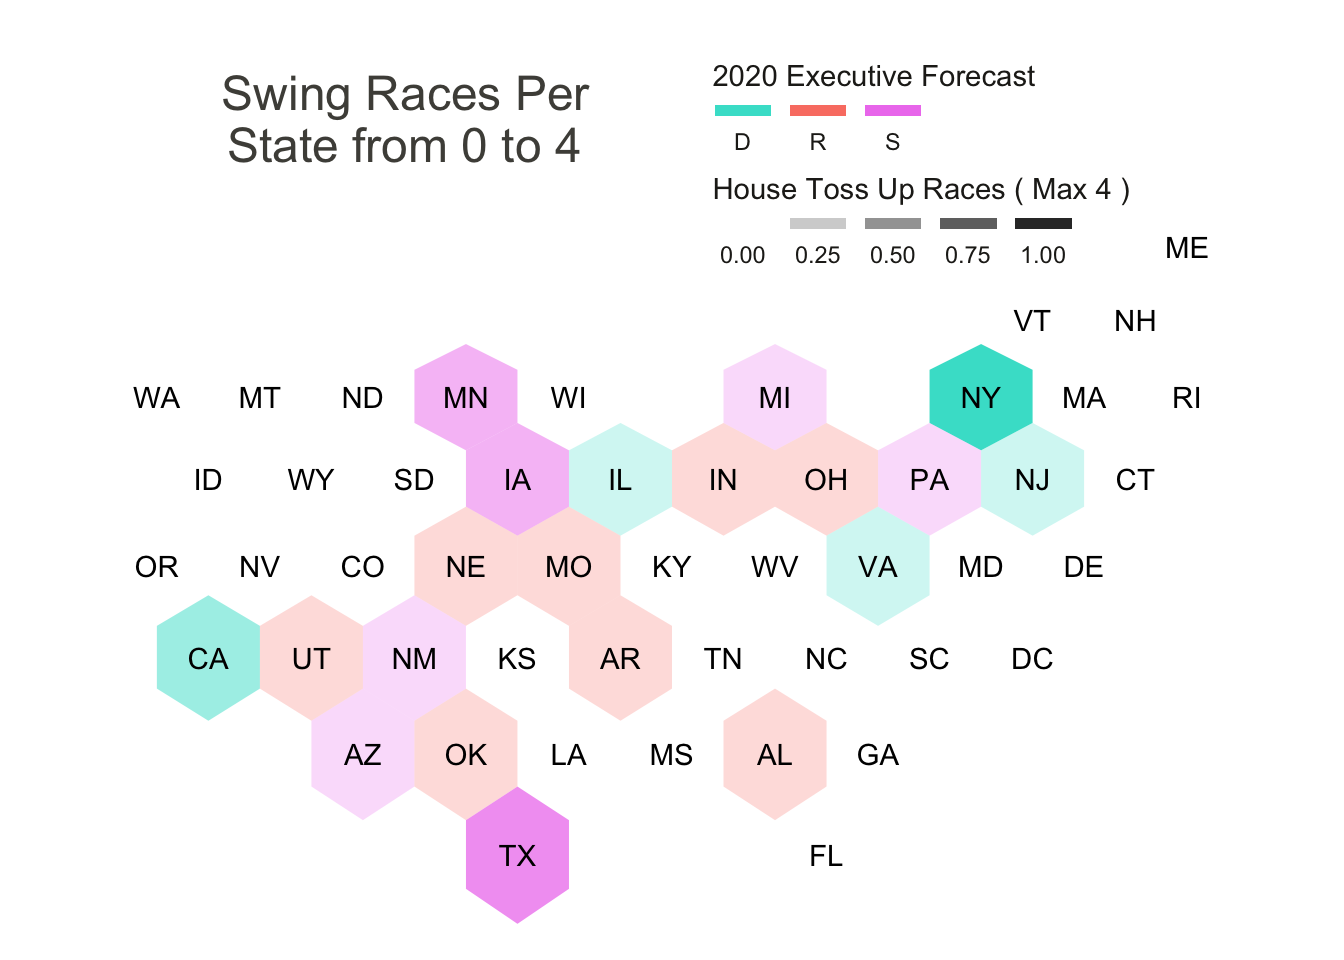
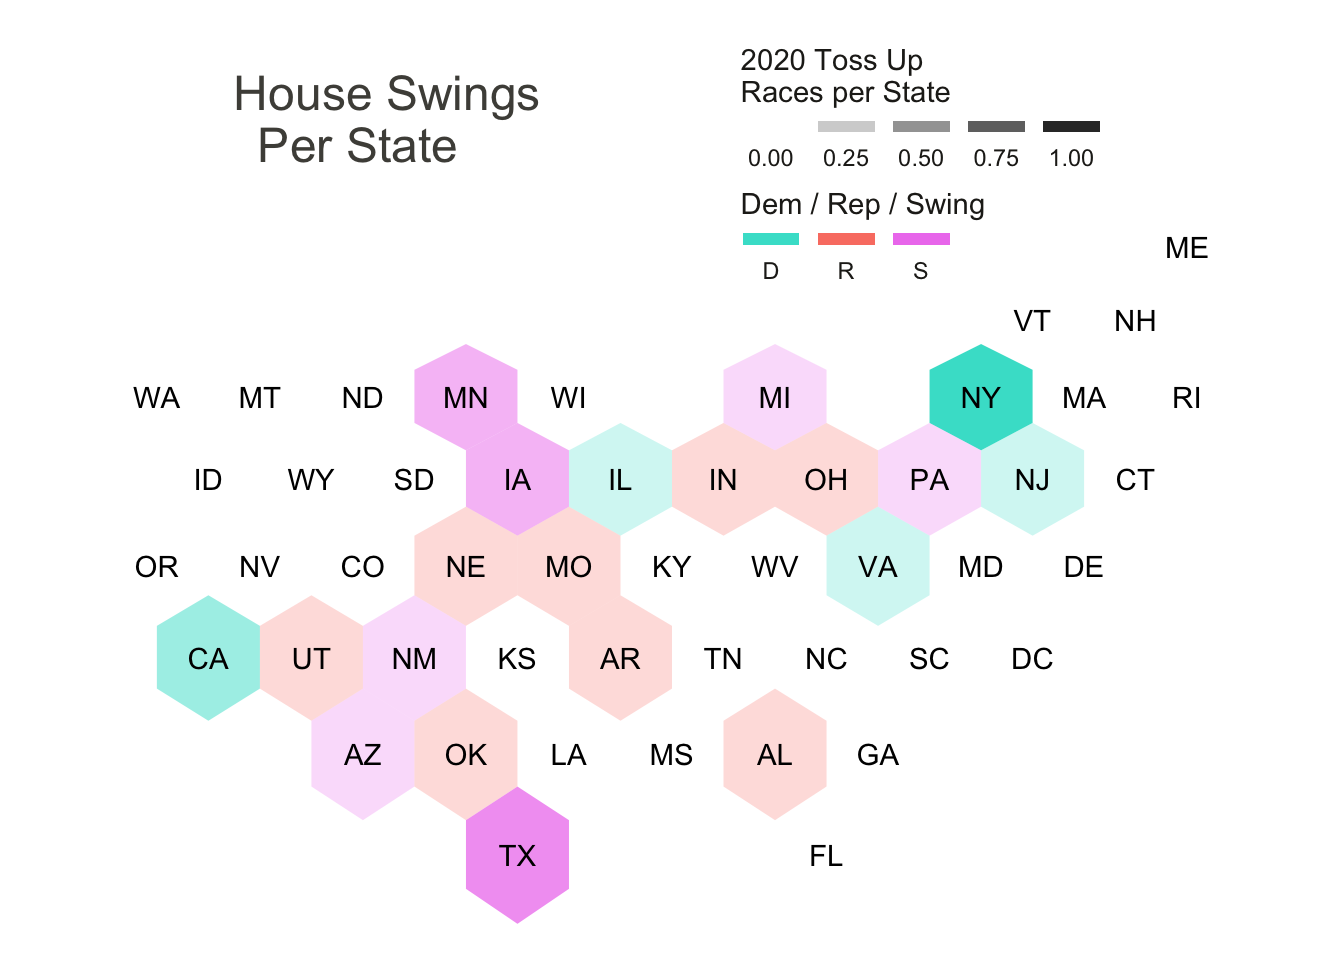
final commit with additional house swing map

Changed region(s): [[0.5312, 0.0312, 0.8438, 0.2812], [0.1562, 0.0625, 0.4375, 0.1875]]

diff --git a/docs/LazinFinal_GEO511.html b/docs/LazinFinal_GEO511.html
@@ -427,6 +427,9 @@ library(broom)
 library(rgeos)
 library(mapproj)
 library(viridis)
+library(corrplot)
+library(reshape2)
+library(igraph)
 knitr::opts_chunk$set(cache=TRUE)  # cache the results for quick compiling</code></pre>
 </div>
 <div id="data" class="section level2">
@@ -1098,28 +1101,28 @@ my_palette4&lt;-magma(8)</code></pre>
     plot.title = element_text(size= 18, hjust=0.2, color = &quot;#4e4d47&quot;, margin = margin(b = -0.1, t = 1, l = 2, unit = &quot;cm&quot;)),
   )
 hex_ec_forecast</code></pre>
-<p><img src="LazinFinal_GEO511_files/figure-html/unnamed-chunk-7-1.png" width="672" /></p>
+<p><img src="LazinFinal_GEO511_files/figure-html/unnamed-chunk-7-1.png" width="672" /> The Electoral College Forecast map is a preliminary heat map, which displays the forecast of electoral college in colors and the % share of the total electoral college votes by opacity / alpha. Based off of this initial map we can see that there are roughly six states that have occupy a sizeable share of the electoral college votes (CA,TX,FL,NY,PA,IL); 21 states in total were forecasted to support the Republican candidate, 16 for the Democrat candidate, 12 that were swing or ambiguous. We can also see that the more Electoral College point rich states, skewed Democrat in pundit forecasting.</p>
 <pre class="r"><code>hex_ec_swingHouse&lt;-ggplot() +
   geom_polygon(data = spdf_fort_L48, aes(fill=SWING_FORECAST, x = long, y = lat, group = group,alpha=TU_alpha))+
   geom_text(data=cntr, aes(x=x, y=y, label=id)) +
   theme_void() +
   scale_fill_manual( 
     values=my_palette2,
-    name=&quot;2020 Executive Forecast&quot;, 
+    name=&quot;Dem / Rep / Swing&quot;, 
     guide = guide_legend(keyheight = unit(2, units = &quot;mm&quot;), 
                          keywidth=unit(8, units = &quot;mm&quot;),
                          label.position = &quot;bottom&quot;,
                          title.position = &#39;top&#39;,
                          nrow=1))+
   scale_alpha_identity(
-    name=&quot;House Toss Up Races ( Max 4 )&quot;,
+    name=&quot;2020 Toss Up \nRaces per State&quot;,
     guide = guide_legend(keyheight = unit(2, units = &quot;mm&quot;),
                          keywidth=unit(8, units = &quot;mm&quot;),
                          label.position = &quot;bottom&quot;,
                          title.position = &#39;top&#39;,
                          nrow=1))+
   coord_quickmap()+
-  ggtitle( &quot;Swing Races Per \nState from 0 to 4&quot; ) +
+  ggtitle( &quot;House Swings \nPer State&quot; ) +
   theme(
     legend.position = c(0.7, 1.0),
     text = element_text(color = &quot;#22211d&quot;),
@@ -1130,7 +1133,7 @@ hex_ec_forecast</code></pre>
     plot.title = element_text(size= 18, hjust=0.2, color = &quot;#4e4d47&quot;, margin = margin(b = -0.1, t = 1, l = 2, unit = &quot;cm&quot;)),
   )
 hex_ec_swingHouse</code></pre>
-<p><img src="LazinFinal_GEO511_files/figure-html/unnamed-chunk-8-1.png" width="672" /></p>
+<p><img src="LazinFinal_GEO511_files/figure-html/unnamed-chunk-8-1.png" width="672" /> This hex map specifically highlights states where congressional change is occurred. Each state is colored per the presidential election forecast and the opacity of each hexagon is determined by the number of toss-up elections in each state (four being the most). We can see that both Texas and New York have four congressional toss-up elections.</p>
 <pre class="r"><code>hex_ec_voteWeight&lt;-ggplot() +
   geom_polygon(data = spdf_fort_L48, aes(fill=RESULT, x = long, y = lat, group = group,alpha=VOTE_WEIGHT+0.2))+
   geom_text(data=cntr, aes(x=x, y=y, label=id)) +
@@ -1161,7 +1164,7 @@ hex_ec_swingHouse</code></pre>
     plot.title = element_text(size= 18, hjust=0.2, color = &quot;#4e4d47&quot;, margin = margin(b = -0.1, t = 1, l = 2, unit = &quot;cm&quot;)),
   )
 hex_ec_voteWeight</code></pre>
-<p><img src="LazinFinal_GEO511_files/figure-html/unnamed-chunk-9-1.png" width="672" /></p>
+<p><img src="LazinFinal_GEO511_files/figure-html/unnamed-chunk-9-1.png" width="672" /> The Electoral College and Popular Relationship map illustrates where individual votes cast have the strongest exchange for Electoral College points. The Electoral College distribution of points is nuanced, however fundamentally a fixed number of points must be divided between all states (and District of Columbia). Most of the Electoral College points are allocated based off of the number of congressional districts, which are designated based off of population, however all states are also given two points basally. This minimum points of the Electoral College subtly gives a better "exchange rate to sparsely populated rural states like Wyoming, the Dakotas, and Vermont. This map also shows how the election played out.</p>
 <pre class="r"><code>spdf_fort_L48$ECbin&lt;-cut(spdf_fort_L48$EC_VOTES,
                          breaks=c(0,6,12,18,24,Inf), 
                          labels=c(&quot;0-6&quot;,&quot;7-12&quot;,&quot;13-18&quot;,&quot;19-24&quot;,&quot;30+&quot;), 
@@ -1190,7 +1193,7 @@ hex_ec_concentration&lt;-ggplot() +
     plot.title = element_text(size= 18, hjust=0.2, color = &quot;#4e4d47&quot;, margin = margin(b = -0.1, t = 1, l = 2, unit = &quot;cm&quot;)),
   )
 hex_ec_concentration</code></pre>
-<p><img src="LazinFinal_GEO511_files/figure-html/unnamed-chunk-10-1.png" width="672" /></p>
+<p><img src="LazinFinal_GEO511_files/figure-html/unnamed-chunk-10-1.png" width="672" /> This is yet another visualization of the Electoral College, which divides the lower 48 states into the saturation of their electoral college points. Here we can more clearly see the distribution of points and also the few states that hold the majority of the electoral college votes.</p>
 <pre class="r"><code>hex_afinn&lt;-ggplot() +
   geom_polygon(data = spdf_fort_L48, aes(fill=as.factor(AFINN), x = long, y = lat, group = group))+
   geom_text(data=cntr, aes(x=x, y=y, label=id),color=&quot;white&quot;) +
@@ -1214,10 +1217,14 @@ hex_ec_concentration</code></pre>
     plot.title = element_text(size= 18, hjust=0.2, color = &quot;#4e4d47&quot;, margin = margin(b = -0.1, t = 1, l = 2, unit = &quot;cm&quot;)),
   )
 hex_afinn</code></pre>
-<p><img src="LazinFinal_GEO511_files/figure-html/unnamed-chunk-11-1.png" width="672" /></p>
+<p><img src="LazinFinal_GEO511_files/figure-html/unnamed-chunk-11-1.png" width="672" /> The Twitter Sentiment uses the same hex map structure, but shows something much more illustrative to the reception of the election results. The sentiments were initially derived from a random sampling of tweets about each state and the election, for example a random sample was collected for Pennsylvania, by filtering only tweets that included both “election” and “Pennsylvania” for the query. Once each of the states’ samples were collected the text of each tweet was extracted and separated into its unique words. Commonly occurring structural words like “it”,“and”,and “the”, as well as the search terms themselves and the candidates names were removed from the list of words. Once that was done the remaining words were joined with an afinn sentiment word list, which assigned values from -5 to +5 to each individual word, and indicated the extremity in positivity and negativity of each word. Finally an average of these afinn values was calculated for each state and then mapped to the hex map.</p>
+<p>The most notable initial finding is that the vast majority of tweets around the digital space of states are negative in tone according to the afinn sentiment assignments, with the only exception being the state of Georgia, which was heading toward a run-off election when the data was collected. On the other side of the spectrum Minnesota and West Virginia were quite extremely negative in sentiment. Its difficult to say exactly why these sentiments have manifested as they have however here are a few unexplored explanations for a few states. West Virginia is the most pro Donald Trump, republican candidate, among all states and so hiw defeat in the national election may have been evocative of negative emotions. Georgia voted for a democrat for the first time since 1996, had a historic high level of black voter participation, and was heading toward a run-off election when the data was collected, perhaps the sentiment on twitter reflected a level of surprise and excitement and the outcome of and participation in the election. Missouri (MO) also had an unexpected positive sentiment compared to many of its neighboring states, possible explanations may be linked back to the ongoing Black Lives Matter movement which started in the suburbs of St Louis, or because of many congressional seat changes. Finally Minnesota also seems to have a particularly negative sentiment in its tweets. The movement to defund the police began in Minneapolis may have influence on how users have perceived the election results.</p>
 </div>
 <div id="wordclouds" class="section level1">
 <h1>Wordclouds</h1>
+<p>The proceeding word cloud analyses sit on top of word frequency counts for each indicated twitter location election stream search. Rather than using the original afinn classification, the word clouds join the unique words with a more simple bing classification list, which in principle does the same thing as afinn, but merely classifies words as either “negative” or “positive”. Positive words are indicated by a dark green coloration, and negative by red coloration. The size of the font of each of the words indicates the frequency (larger word ~ more frequently used). At the center of each word cloud the most commonly used words can be found and the frequencies decrease as the words radiate out from the center. This color scheme is a visual way to understand what is being said in the digital community.</p>
+<div id="swing-states" class="section level2">
+<h2>Swing States</h2>
 <pre class="r"><code>#WORD CLOUDS https://towardsdatascience.com/create-a-word-cloud-with-r-bde3e7422e8a
 swing_wfqc&lt;-rbind(untk_pa,untk_ga,untk_az,untk_fl,untk_ia,untk_mi,untk_mn,untk_nm,untk_nv,untk_tx,untk_wi)%&gt;%
   count(word,sort=TRUE)
@@ -1225,12 +1232,35 @@ bing_swing&lt;-swing_wfqc%&gt;%
   inner_join(bing)
 bing_swing$color&lt;-ifelse(bing_swing$sentiment %in% &quot;negative&quot;,&quot;red&quot;,&quot;darkgreen&quot;)
 
-cloud_swing&lt;-wordcloud(word=bing_swing$word,freq=bing_swing$n,min.freq=0,max.words=25,ordered.colors=T,random.order=F,colors=bing_swing$color)</code></pre>
+head(bing_swing)</code></pre>
+<pre><code>##      word    n sentiment     color
+## 1   fraud 6802  negative       red
+## 2     won 5005  positive darkgreen
+## 3  stolen 3788  negative       red
+## 4 support 3506  positive darkgreen
+## 5    lost 3333  negative       red
+## 6   steal 2807  negative       red</code></pre>
+<pre class="r"><code>cloud_swing&lt;-wordcloud(word=bing_swing$word,freq=bing_swing$n,min.freq=0,max.words=25,ordered.colors=T,random.order=F,colors=bing_swing$color)</code></pre>
 <p><img src="LazinFinal_GEO511_files/figure-html/unnamed-chunk-12-1.png" width="672" /></p>
+</div>
 <div id="pennsylvania" class="section level2">
 <h2>Pennsylvania</h2>
+<pre class="r"><code>pa_wfqc&lt;-untk_pa%&gt;%
+  count(word,sort=TRUE)
+bing_pa&lt;-pa_wfqc%&gt;%
+  inner_join(bing)
+bing_pa$color&lt;-ifelse(bing_pa$sentiment %in% &quot;negative&quot;,&quot;red&quot;,&quot;darkgreen&quot;)
+
+head(bing_pa)</code></pre>
+<pre><code>##      word    n sentiment     color
+## 1   fraud 1267  negative       red
+## 2 support  336  positive darkgreen
+## 3     won  329  positive darkgreen
+## 4  stolen  307  negative       red
+## 5   steal  296  negative       red
+## 6    lost  242  negative       red</code></pre>
 <pre class="r"><code>cloud_pa&lt;-wordcloud(word=bing_pa$word,freq=bing_pa$n,min.freq=0,max.words=25,ordered.colors=T,random.order=F,colors=bing_pa$color)</code></pre>
-<p><img src="LazinFinal_GEO511_files/figure-html/unnamed-chunk-14-1.png" width="672" /></p>
+<p><img src="LazinFinal_GEO511_files/figure-html/unnamed-chunk-13-1.png" width="672" /></p>
 </div>
 <div id="minnesota" class="section level2">
 <h2>Minnesota</h2>
@@ -1240,8 +1270,16 @@ bing_mn&lt;-mn_wfqc%&gt;%
   inner_join(bing)
 bing_mn$color&lt;-ifelse(bing_mn$sentiment %in% &quot;negative&quot;,&quot;red&quot;,&quot;darkgreen&quot;)
 
-cloud_mn&lt;-wordcloud(word=bing_mn$word,freq=bing_mn$n,min.freq=0,max.words=25,ordered.colors=T,random.order=F,colors=bing_mn$color)</code></pre>
-<p><img src="LazinFinal_GEO511_files/figure-html/unnamed-chunk-15-1.png" width="672" /></p>
+head(bing_mn)</code></pre>
+<pre><code>##         word    n sentiment     color
+## 1     stolen 1986  negative       red
+## 2      fraud  672  negative       red
+## 3        won  276  positive darkgreen
+## 4      steal  268  negative       red
+## 5       lost  225  negative       red
+## 6 conspiracy  204  negative       red</code></pre>
+<pre class="r"><code>cloud_mn&lt;-wordcloud(word=bing_mn$word,freq=bing_mn$n,min.freq=0,max.words=25,ordered.colors=T,random.order=F,colors=bing_mn$color)</code></pre>
+<p><img src="LazinFinal_GEO511_files/figure-html/unnamed-chunk-14-1.png" width="672" /></p>
 </div>
 <div id="west-virginia" class="section level2">
 <h2>West Virginia</h2>
@@ -1251,8 +1289,16 @@ bing_wv&lt;-wv_wfqc%&gt;%
   inner_join(bing)
 bing_wv$color&lt;-ifelse(bing_wv$sentiment %in% &quot;negative&quot;,&quot;red&quot;,&quot;darkgreen&quot;)
 
-cloud_wv&lt;-wordcloud(word=bing_wv$word,freq=bing_wv$n,min.freq=0,max.words=25,ordered.colors=T,random.order=F,colors=bing_wv$color)</code></pre>
-<p><img src="LazinFinal_GEO511_files/figure-html/unnamed-chunk-16-1.png" width="672" /></p>
+head(bing_wv)</code></pre>
+<pre><code>##     word   n sentiment     color
+## 1   fake 728  negative       red
+## 2  fraud 723  negative       red
+## 3    won 493  positive darkgreen
+## 4  badly 379  negative       red
+## 5  steal 254  negative       red
+## 6 secure 223  positive darkgreen</code></pre>
+<pre class="r"><code>cloud_wv&lt;-wordcloud(word=bing_wv$word,freq=bing_wv$n,min.freq=0,max.words=25,ordered.colors=T,random.order=F,colors=bing_wv$color)</code></pre>
+<p><img src="LazinFinal_GEO511_files/figure-html/unnamed-chunk-15-1.png" width="672" /></p>
 </div>
 <div id="georgia" class="section level2">
 <h2>Georgia</h2>
@@ -1262,15 +1308,60 @@ bing_ga&lt;-ga_wfqc%&gt;%
   inner_join(bing)
 bing_ga$color&lt;-ifelse(bing_ga$sentiment %in% &quot;negative&quot;,&quot;red&quot;,&quot;darkgreen&quot;)
 
-cloud_ga&lt;-wordcloud(word=bing_ga$word,freq=bing_ga$n,min.freq=0,max.words=25,ordered.colors=T,random.order=F,colors=bing_ga$color)</code></pre>
-<p><img src="LazinFinal_GEO511_files/figure-html/unnamed-chunk-17-1.png" width="672" /></p>
+head(bing_ga)</code></pre>
+<pre><code>##      word   n sentiment     color
+## 1    wins 633  positive darkgreen
+## 2     won 554  positive darkgreen
+## 3     win 466  positive darkgreen
+## 4   fraud 354  negative       red
+## 5    lost 309  negative       red
+## 6 support 286  positive darkgreen</code></pre>
+<pre class="r"><code>cloud_ga&lt;-wordcloud(word=bing_ga$word,freq=bing_ga$n,min.freq=0,max.words=25,ordered.colors=T,random.order=F,colors=bing_ga$color)</code></pre>
+<p><img src="LazinFinal_GEO511_files/figure-html/unnamed-chunk-16-1.png" width="672" /></p>
 </div>
 </div>
-<div id="results" class="section level1">
-<h1>Results</h1>
+<div id="conclusion" class="section level1">
+<h1>Conclusion</h1>
 <p>[~200 words]</p>
-<p>Tables and figures (maps and other graphics) are carefully planned to convey the results of your analysis. Intense exploration and evidence of many trials and failures. The author looked at the data in many different ways before coming to the final presentation of the data.</p>
-<p>Show tables, plots, etc. and describe them.</p>
+<p>still have to fill this in.. .. also open to any aditional analyses that people might be interested in seeing..</p>
+</div>
+<div id="thoughts-ideas-additional-analysis" class="section level1">
+<h1>Thoughts / Ideas Additional Analysis</h1>
+<pre class="r"><code>#strip_pa&lt;-subset(untk_pa,select=c(tweet,word))
+
+#untk_bg_pa&lt;-txt_pa%&gt;%
+#  unnest_tokens(bigram,text,token=&quot;ngrams&quot;,n=2)
+#untk_split_pa&lt;-untk_bg_pa%&gt;%
+#  separate(bigram,c(&quot;word1&quot;,&quot;word2&quot;),sep=&quot; &quot;)
+#untk_split_sw_pa&lt;-untk_split_pa%&gt;%
+#  anti_join(stop_words,by=c(&quot;word1&quot;=&quot;word&quot;))%&gt;%
+#  anti_join(stop_words,by=c(&quot;word2&quot;=&quot;word&quot;))%&gt;%
+#  anti_join(stop_twitter,by=c(&quot;word1&quot;=&quot;word&quot;))%&gt;%
+#  anti_join(stop_twitter,by=c(&quot;word2&quot;=&quot;word&quot;))%&gt;%
+#  anti_join(stop_candidate,by=c(&quot;word1&quot;=&quot;word&quot;))%&gt;%
+#  anti_join(stop_candidate,by=c(&quot;word2&quot;=&quot;word&quot;))
+#untk_split_sw_pa&lt;-subset(untk_split_sw_pa,select=-location)
+#bip_pa&lt;-graph.data.frame(untk_split_sw_pa)
+#V(bip_pa)$type&lt;-V(bip_pa)$name %in% bip_pa[,1]
+#v&lt;-get.adjacency(bipartite.projection(bip_pa)[[2]],attr=&quot;weight&quot;,sparse=FALSE)
+
+#test_pa&lt;-crossprod(table(untk_split_sw_pa[2:3]))</code></pre>
+<pre class="r"><code>afinn_states&lt;-round(c(avg_al,avg_ar,avg_az,avg_ca,avg_cn,avg_co,avg_dc,avg_de,avg_fl,avg_ga,avg_ia,avg_id,avg_il,avg_in,avg_ks,avg_ky,avg_la,avg_ma,avg_md,avg_me,avg_mi,avg_mn,avg_mo,avg_ms,avg_mt,avg_nc,avg_nd,avg_ne,avg_nh,avg_nj,avg_nm,avg_nv,avg_ny,avg_oh,avg_ok,avg_or,avg_pa,avg_ri,avg_sc,avg_sd,avg_tn,avg_tx,avg_ut,avg_va,avg_vt,avg_wa,avg_wi,avg_wv,avg_wy),2)
+states_afinn_new&lt;-tibble(afinn_states,state_names)
+names(states_afinn_new)&lt;-c(&quot;AFINN_2&quot;,&quot;NAME&quot;)
+spdf_fort_tprep&lt;-merge(spdf_fort_L48,states_afinn_new,by=&quot;NAME&quot;)
+
+spdf_fort_tprep&lt;-subset(spdf_fort_tprep,select=-c(NAME,long,lat,order,hole,piece,group,GEOID,REGION,AREA,TU_alpha,AFINN,geometry,ECbin,RESULT,SWING_FORECAST))
+states_table&lt;-distinct(spdf_fort_tprep)
+
+m&lt;-as.matrix(states_table)
+data_corr&lt;-corrplot(cor(m),method=&quot;color&quot;)</code></pre>
+<div class="figure">
+<img src="LazinFinal_GEO511_files/figure-html/unnamed-chunk-18-1.png" alt="Map of completely random data" width="576" />
+<p class="caption">
+Map of completely random data
+</p>
+</div>
 <pre class="r"><code>#m &lt;- leaflet(data) %&gt;% 
 #  addTiles() %&gt;% 
 #  addCircleMarkers(~x, ~y, radius = ~size,color = ~as.factor(category)) %&gt;% 
@@ -1279,11 +1370,6 @@ cloud_ga&lt;-wordcloud(word=bing_ga$word,freq=bing_ga$n,min.freq=0,max.words=25,
 <pre class="r"><code>#data %&gt;% 
 #  ggplot(aes(x=x,y=y,col=category))+
 #  geom_point()</code></pre>
-</div>
-<div id="conclusions" class="section level1">
-<h1>Conclusions</h1>
-<p>[~200 words]</p>
-<p>Clear summary adequately describing the results and putting them in context. Discussion of further questions and ways to continue investigation.</p>
 </div>
 <div id="references" class="section level1">
 <h1>References</h1>
